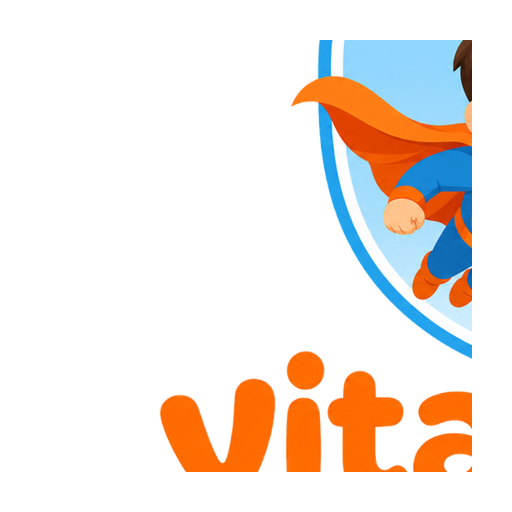
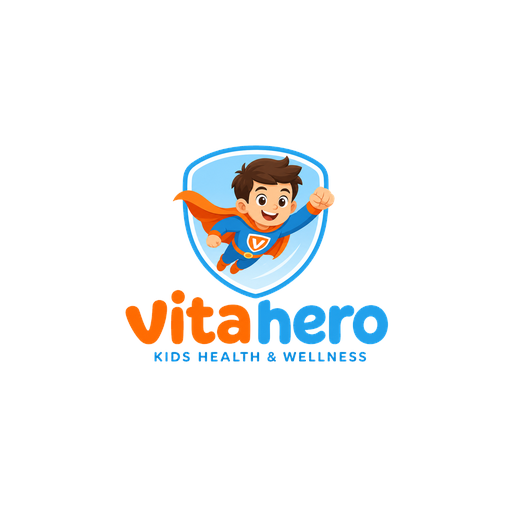
Updated the app's store page and images.

diff --git a/tmp-assets/generate_real_brand_assets.py b/tmp-assets/generate_real_brand_assets.py
@@ -64,8 +64,9 @@ def load_logo(path: Path, target: int) -> Image.Image:
 
 
 def make_launcher_foreground():
-    logo = load_logo(LOGO_PATH, 360)
     size = 432
+    pad = 48
+    logo = load_logo(LOGO_PATH, size - pad * 2)
     canvas = Image.new("RGBA", (size, size), (0, 0, 0, 0))
     x = (size - logo.width) // 2
     y = (size - logo.height) // 2
@@ -76,9 +77,11 @@ def make_launcher_foreground():
 
 def make_playstore_icon():
     size = 512
+    pad = 56
     canvas = Image.new("RGBA", (size, size), SURFACE)
-    # Use icon version if it looks better centered, otherwise full logo
-    logo = load_logo(ICON_PATH, size - 80)
+
+    # Use the full logo (superhero + wordmark) from presentation/vitahero_logo.png
+    logo = load_logo(LOGO_PATH, size - pad * 2)
     x = (size - logo.width) // 2
     y = (size - logo.height) // 2
     canvas.paste(logo, (x, y), logo)
